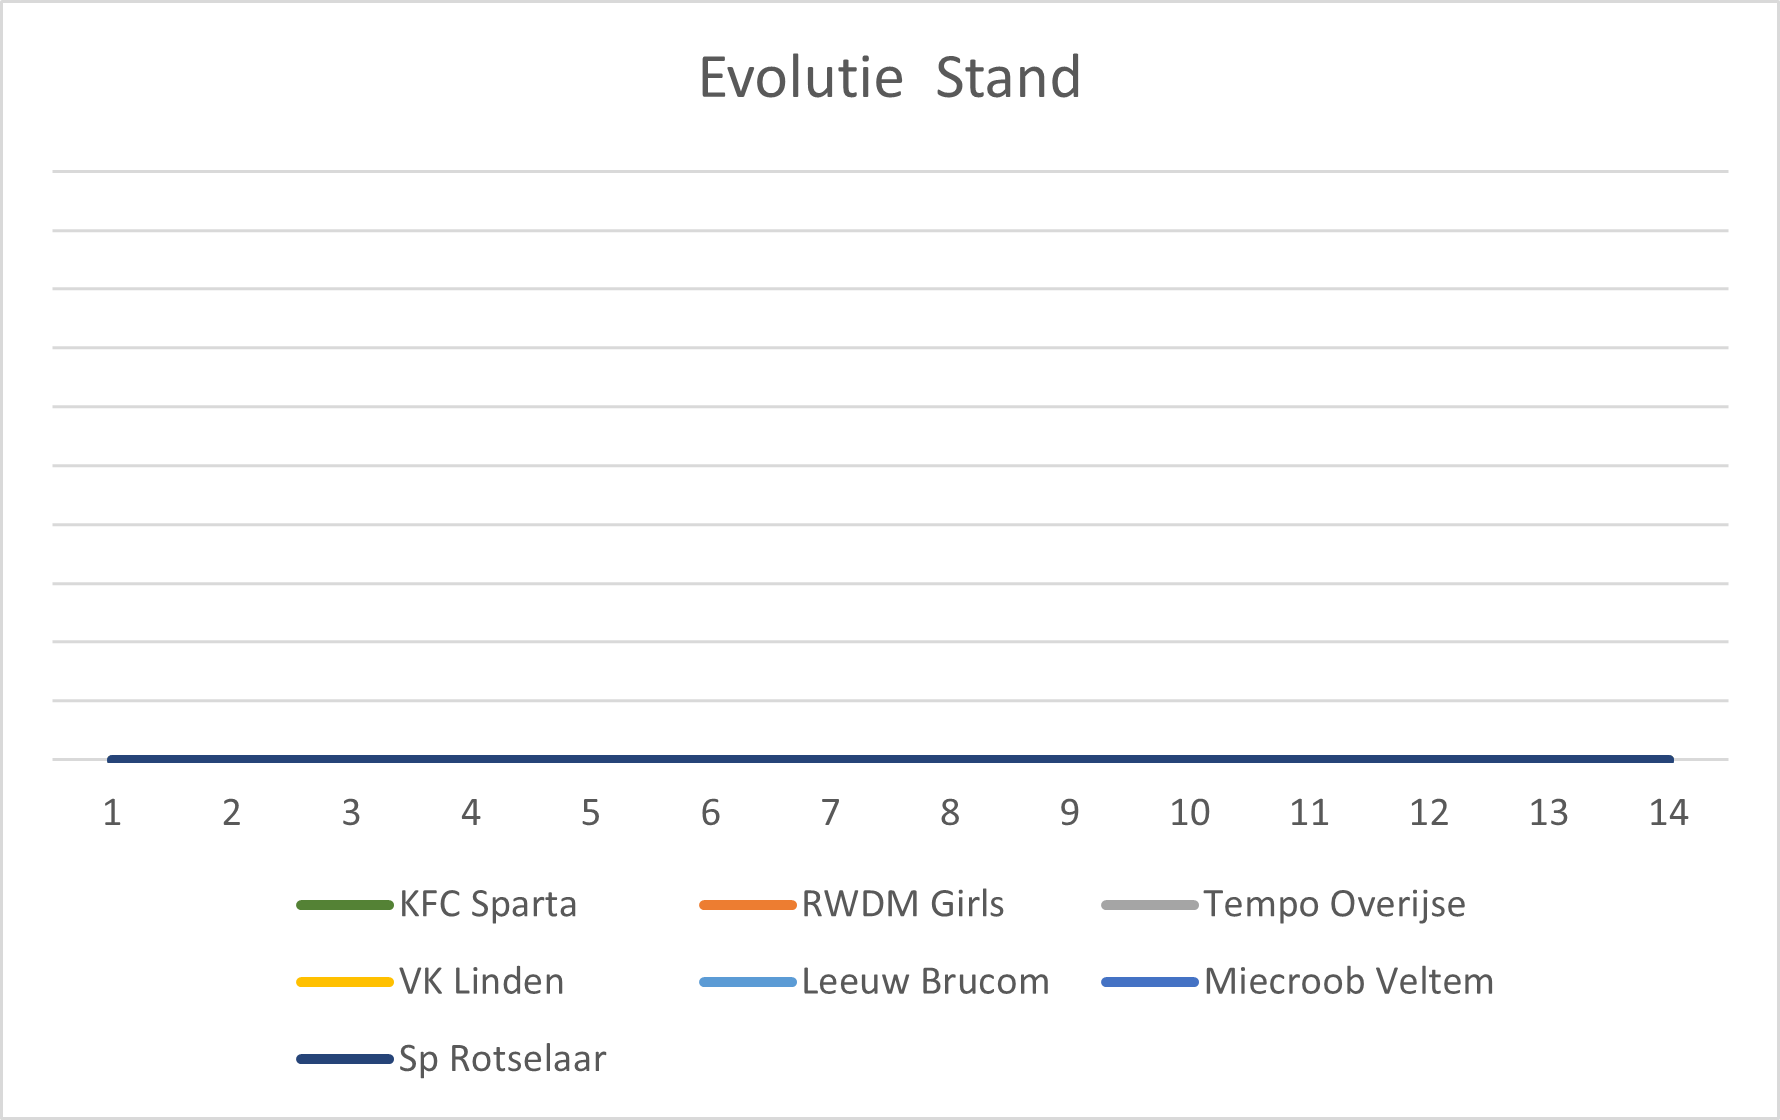
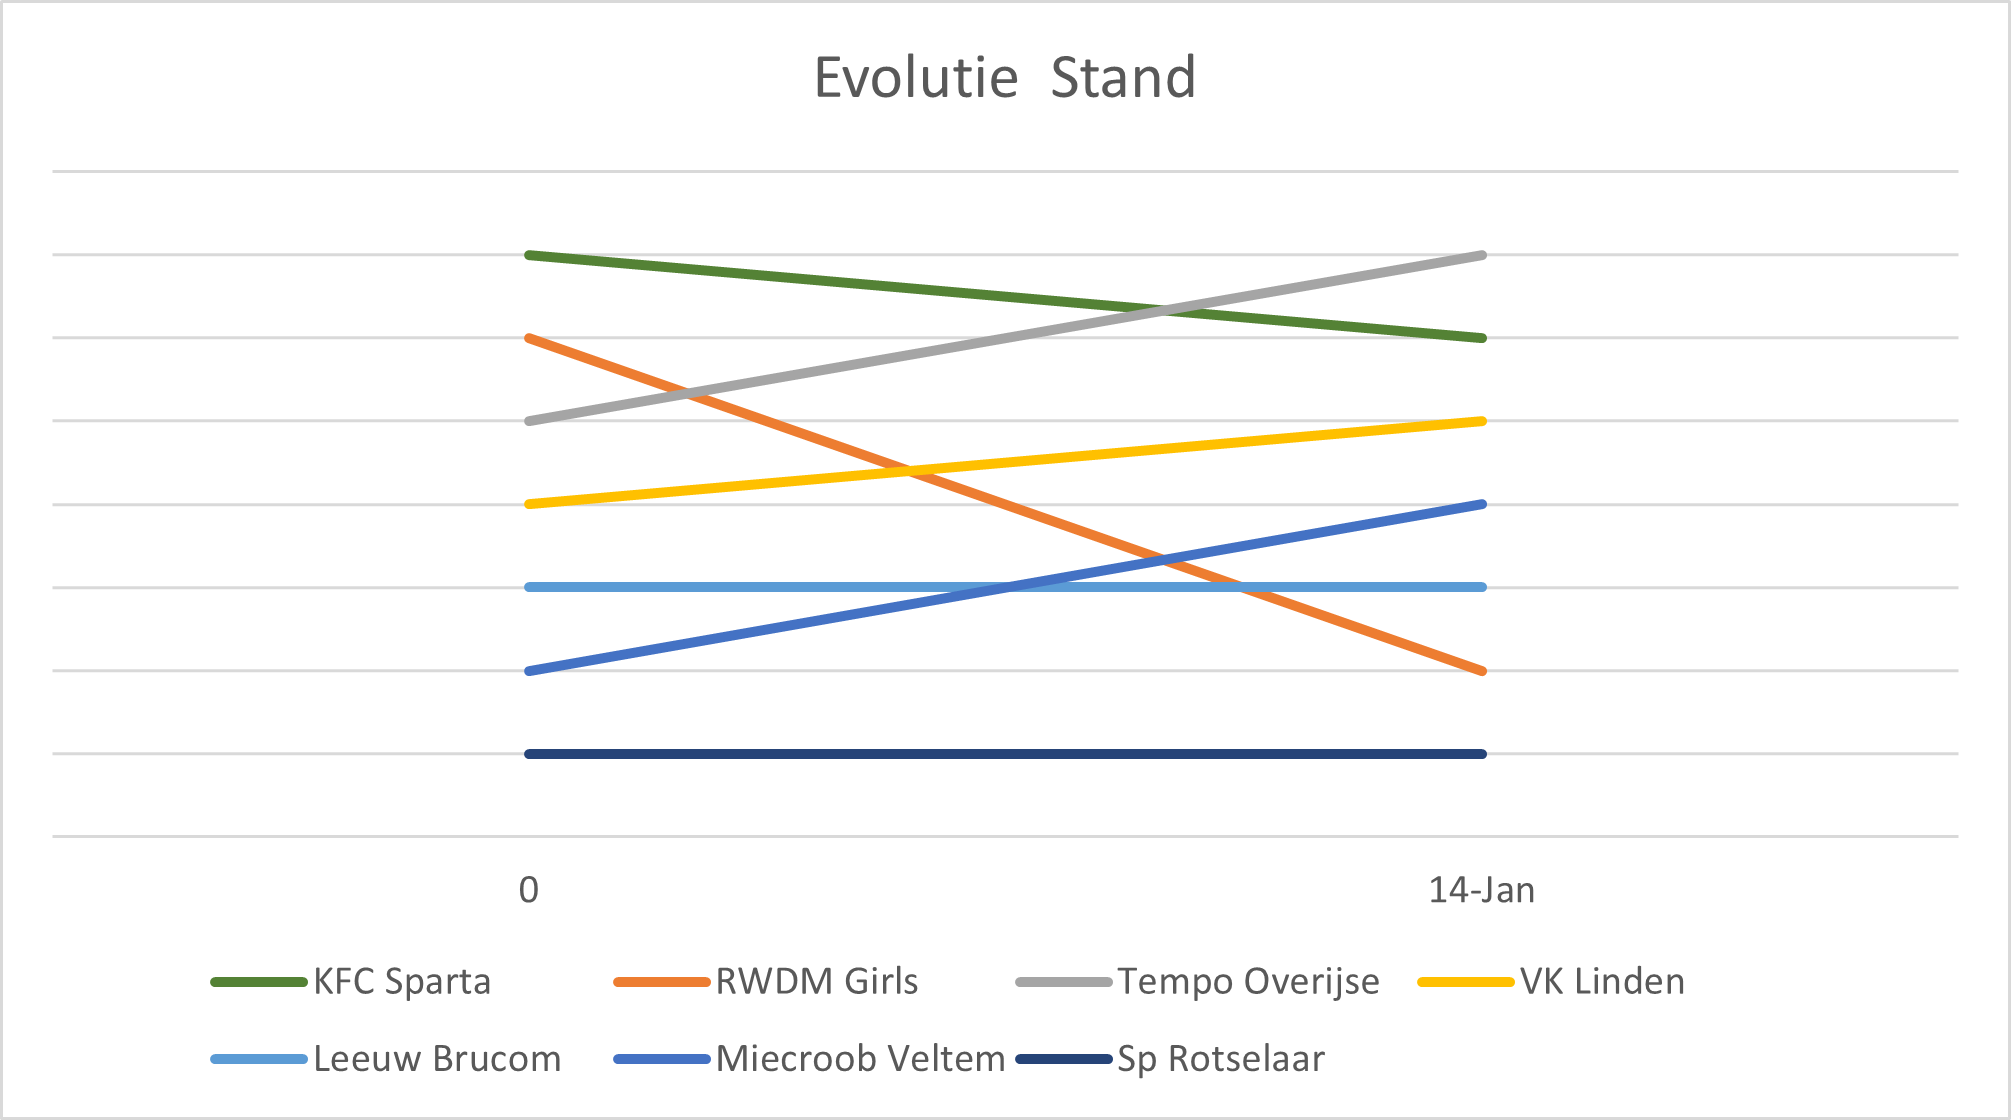
Update

diff --git a/README.md b/README.md
@@ -6,32 +6,29 @@ Op deze pagina vind je allerlei nuttige informatie & afspraken voor de MU 16 sei
 
 ## Volgende wedstrijd
 
-Volgende **thuis** wedstrijd is op zondag **14 januari** tegen **R.W.D.M. Girls C** om **10.30** (09.30 ter plaatse)
+<!-- > Volgende **thuis** wedstrijd is op zondag **14 januari** tegen **R.W.D.M. Girls C** om **10.30** (09.30 ter plaatse)
 
 > kleedkamer: **Gitte & Dee Dee**
 
 > fruit: **Gitte**
 
-> was meenemen: **Gitte**
+> was meenemen: **Gitte** -->
 
 
-<!-- > Volgende **uit** wedstrijd is op vrijdag **25 november** tegen **Herenthout** om **11.15** (10.15 ter plaatse of 09.15 vertrekken op Sparta) 
+> Volgende **uit** wedstrijd is op zondag **21 januari** tegen **Tempo Overijse** om **11.30** (10.30 ter plaatse of 09.30 vertrekken op Sparta) 
 
-> Fruit: Féliz
+> Fruit: Dee Dee
 
-> Was meenemen: Féliz
+> Was meenemen: Dee Dee
 
 > Adres:
-K.F.C. Herenthout<br>
-Bergensesteenweg 63  <br>
-2270 Herenthout <br>
-[map](https://www.google.be/maps/place/K.F.C.+Herenthout/@51.1506529,4.7652413,17z/data=!3m1!4b1!4m6!3m5!1s0x47c15135033e2181:0x4f7b365a7e464a13!8m2!3d51.1506529!4d4.7652413!16s%2Fg%2F11bzx579nx?entry=ttu) -->
-
-
+BSB - Terrein 1 <br>
+Pater Dupierreuxlaan 1<br>
+3080 Tervuren <br>
+[map](https://www.google.com/maps/place/Pater+Dupierreuxlaan+1,+3080+Tervuren/@50.8326238,4.5242327,17.5z/data=!4m6!3m5!1s0x47c3d948c9555629:0x4a3158abe793a14f!8m2!3d50.8327965!4d4.5255852!16s%2Fg%2F11c0pv5kvc?entry=ttu)
 
 Datum   | Thuis | Uit   | Tegenstander          | Uur
 ---     |:---:  |:---:  |---                    | ---
-14-Jan|☑|| RWDM Girls|10.30
 21-Jan||☑|Tempo Overijse|11.30
 28-Jan|☑||VK Linden|10.30
 3-Feb||☑|Leeuw Brucom|10.00
@@ -55,6 +52,7 @@ Symbool   | Status
 
 Datum   | Thuis | Uit    | Tegenstander        | Uitslag
 ---     |:---:  |:---:   |---                  |---
+14-Jan  |✅     |       | RWDM Girls            |**6-0**
 02-Dec  |✅     |       |S.C. Mechelen          | **10-0**
 25-Nov  |       |✅     |K.F.C Herenthout       | **0-5**
 18-Nov  |✅     |       |Antwerp Diamonds Fc    | **7-0**
@@ -74,13 +72,14 @@ Datum   | Thuis | Uit    | Tegenstander        | Uitslag
 
 Team	|	PTS	|	M	|	W	|	V	|	G	|	+	|	-	|	+/-
 ---	|	---	|	---	|	---	|	---	|	---	|	---	|	---	|	---
-KFC Sparta	|	0	|	0	|	0	|	0	|	0	|	0	|	0	|	0
-RWDM Girls	|	0	|	0	|	0	|	0	|	0	|	0	|	0	|	0
-Tempo Overijse	|	0	|	0	|	0	|	0	|	0	|	0	|	0	|	0
+Tempo Overijse	|	3	|	1	|	1	|	0	|	0	|	13	|	1	|	12
+KFC Sparta	|	3	|	1	|	1	|	0	|	0	|	6	|	0	|	6
 VK Linden	|	0	|	0	|	0	|	0	|	0	|	0	|	0	|	0
-Leeuw Brucom	|	0	|	0	|	0	|	0	|	0	|	0	|	0	|	0
 Miecroob Veltem	|	0	|	0	|	0	|	0	|	0	|	0	|	0	|	0
-Sp Rotselaar	|	0	|	0	|	0	|	0	|	0	|	0	|	0	|	0
+Leeuw Brucom	|	0	|	0	|	0	|	0	|	0	|	0	|	0	|	0
+RWDM Girls	|	0	|	1	|	0	|	1	|	0	|	0	|	6	|	-6
+Sp Rotselaar	|	0	|	1	|	0	|	1	|	0	|	1	|	13	|	-12
+
 
 ![Sparta](/assets/ranking2.png)
 
